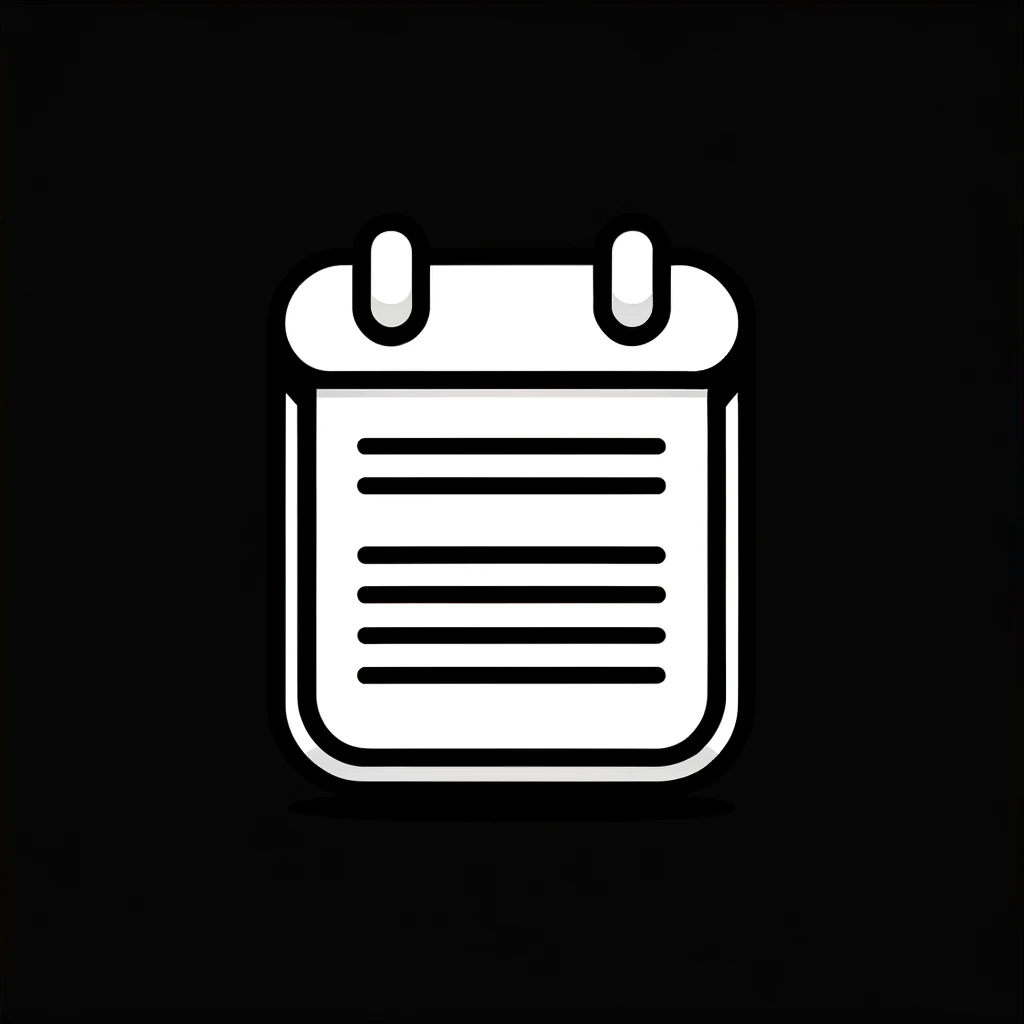
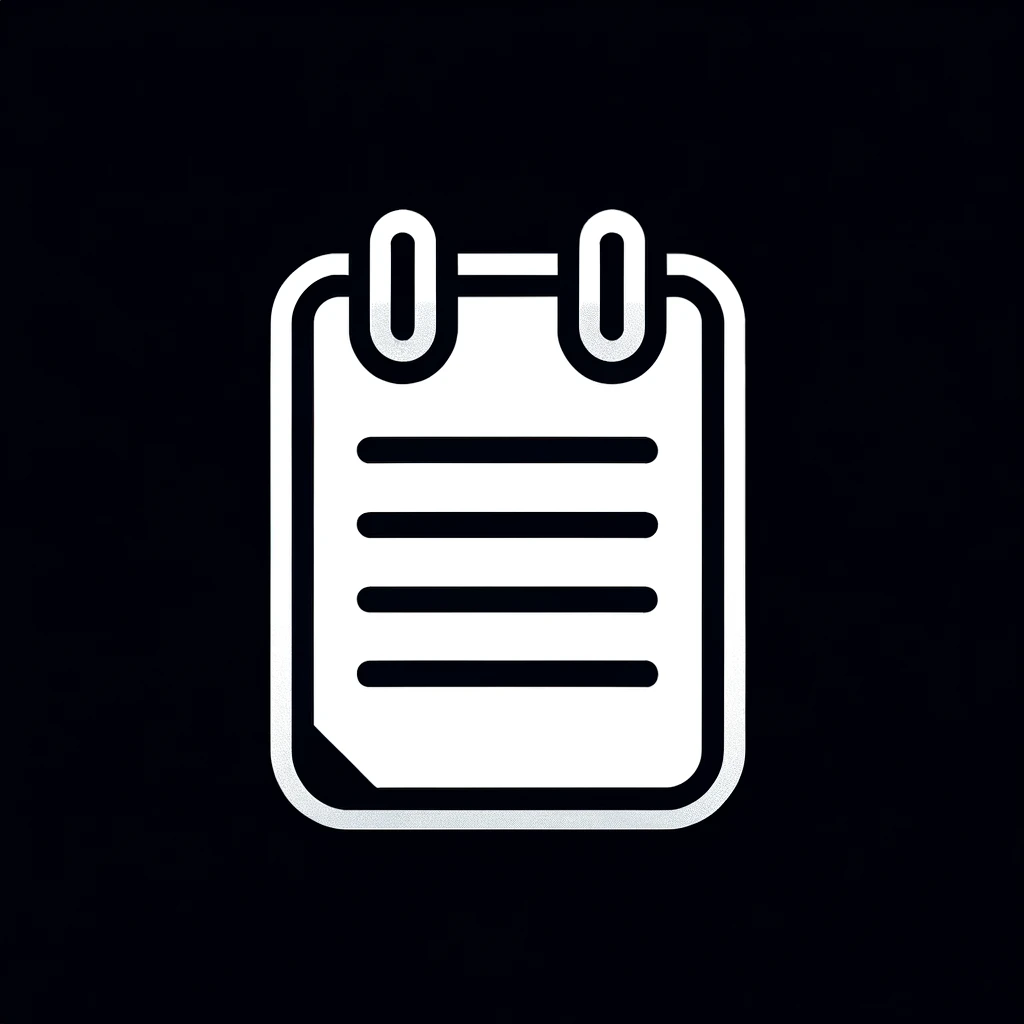
button design

Changed region(s): [[0.25, 0.1875, 0.75, 0.8125]]

diff --git a/src/pages/ActivityPage/SWCorePage.tsx b/src/pages/ActivityPage/SWCorePage.tsx
@@ -8,7 +8,8 @@ import { useSelector, useDispatch } from 'react-redux';
 import { RootState, AppDispatch } from "../../stores/redux/store";
 import { updateActivity, removeActivity, updateSWCoreInfo, updateTotals } from "../../stores/redux/userSlice";
 import { v4 as uuidv4 } from 'uuid';
-
+import plusButton from '../../assets/plusButton.webp';
+import summaryButton from '../../assets/summaryButton.webp';
 
 const SWCorePage:React.FC = () => {
 
@@ -67,7 +68,6 @@ const SWCorePage:React.FC = () => {
 				dispatch(updateActivity({id: activity.id, activity}))
 			});
 		
-			
 			return updatedActivitiesData;
 		});
 	};
@@ -94,12 +94,14 @@ const SWCorePage:React.FC = () => {
 	//되는 이슈가 가장 크다. 이걸 해결하기 위해 useEffect를 사용하는것임.
 	return (
 		<MainLayout>	
-			<div className={`${classes.button_container}`}>
-				<div className={classes.button_wrapper}>
-					<button className={classes.button} onClick={handlePlusButton}>+</button>
+			<div className={`${classes.button_container}` }>
+				<div className={`${classes.button_wrapper} ${classes.tooltip}`}>
+					<img src={plusButton} onClick={handlePlusButton} alt="plusButton"/>
+					<span className={classes.tooltiptext}>활동 추가하기</span>
 				</div>
-				<div className={classes.button_wrapper}>
-					<button className={classes.button}>-</button>
+				<div className={`${classes.button_wrapper} ${classes.tooltip}`}>
+					<img src={summaryButton} alt="summaryButton"/>
+					<span className={classes.tooltiptext}>등록 활동 목록</span>
 				</div>
 			</div>
 			{/* 원래 activitiesData를 그래도 map해서 보여주는 식으로 했지만, slice를 통한 얕은 복사를 통해 

diff --git a/src/pages/ActivityPage/SWValuePage.tsx b/src/pages/ActivityPage/SWValuePage.tsx
@@ -7,7 +7,9 @@ import classes from './PageStyles.module.css';
 import { useSelector, useDispatch } from 'react-redux';
 import { RootState, AppDispatch } from "../../stores/redux/store";
 import { updateActivity, removeActivity, updateSWValueInfo, updateTotals } from "../../stores/redux/userSlice";
-import {v4 as uuidv4} from 'uuid'
+import {v4 as uuidv4} from 'uuid';
+import plusButton from '../../assets/plusButton.webp';
+import summaryButton from '../../assets/summaryButton.webp';
 
 const SWValuePage:React.FC = () => {
 	const area:string = 'SW가치확산역량';
@@ -88,12 +90,14 @@ const SWValuePage:React.FC = () => {
 
 	return (
 		<MainLayout>	
-			<div className={`${classes.button_container}`}>
-				<div className={classes.button_wrapper}>
-					<button className={classes.button} onClick={handlePlusButton}>+</button>
+			<div className={`${classes.button_container}` }>
+				<div className={`${classes.button_wrapper} ${classes.tooltip}`}>
+					<img src={plusButton} onClick={handlePlusButton} alt="plusButton"/>
+					<span className={classes.tooltiptext}>활동 추가하기</span>
 				</div>
-				<div className={classes.button_wrapper}>
-					<button className={classes.button}>-</button>
+				<div className={`${classes.button_wrapper} ${classes.tooltip}`}>
+					<img src={summaryButton} alt="summaryButton"/>
+					<span className={classes.tooltiptext}>등록 활동 목록</span>
 				</div>
 			</div>
 			

diff --git a/src/pages/ActivityPage/PageStyles.module.css b/src/pages/ActivityPage/PageStyles.module.css
@@ -1,8 +1,47 @@
 
+.tooltip{
+	position: relative;
+	display: inline-block;
+}
+.tooltip .tooltiptext{
+	visibility: hidden;
+	width: 120px;
+	background-color: #ffffff;
+	color: #000000;
+	text-align: center;
+	border-radius: 6px;
+	padding: 5px 0;
+
+	position: absolute;
+  z-index: 1;
+  top: 100%;
+  left: 50%;
+  margin-left: -60px;
+
+	opacity: 0;
+	transition: opacity 0.3s;
+}
+
+.tooltip:hover .tooltiptext{
+	visibility: visible;
+	opacity: 1;
+}
+
+.tooltiptext::after{
+	border-top:0px solid transparent;
+	border-left: 10px solid transparent;
+	border-right: 10px solid transparent;
+	border-bottom: 10px solid white;
+	content:"";
+	position:absolute;
+	top:-10px;
+	right: 50px;
+}
+
 .button_container{
 	display: flex;
 	margin: 0 auto;
-	background-color: #2B2C31;
+	background-color: #000000;
 	border-radius: 10px;
 	width: 30%;
 	justify-content: center;
@@ -13,20 +52,16 @@
 	justify-content: center;
 	align-items: center;
 	border: 20px;
+	cursor: pointer;
+	transition: color 0.3s;
 }
 
-.button{
-	margin: 10px;
-	padding: 10px;
-	width: 60px;
-	height: 60px;
-	background-color: #ffffff;
-	color: #000000;
-	border-radius: 10px;
-	border: 2px solid #ffffff;
-	font-size: 25px;
+.button_wrapper img{
+	width: 80px;
+	height: auto;
+	transition: opacity 0.3s ease;
 }
 
-.button:hover{
-	border: 2px solid #32A4FF;
+.button_wrapper img:hover{
+	opacity: 0.7;
 }

diff --git a/src/pages/ActivityPage/SWCooperationPage.tsx b/src/pages/ActivityPage/SWCooperationPage.tsx
@@ -8,6 +8,8 @@ import { useSelector, useDispatch } from 'react-redux';
 import { RootState, AppDispatch } from "../../stores/redux/store";
 import { updateActivity, removeActivity, updateSWCooperationInfo, updateTotals } from "../../stores/redux/userSlice";
 import { v4 as uuidv4 } from 'uuid';
+import plusButton from '../../assets/plusButton.webp';
+import summaryButton from '../../assets/summaryButton.webp';
 
 const SWCooperationPage : React.FC = () =>{
 	const area:string = 'SW산학협력·창업역량';
@@ -88,12 +90,14 @@ const SWCooperationPage : React.FC = () =>{
 
 	return (
 		<MainLayout>	
-			<div className={`${classes.button_container}`}>
-				<div className={classes.button_wrapper}>
-					<button className={classes.button} onClick={handlePlusButton}>+</button>
+			<div className={`${classes.button_container}` }>
+				<div className={`${classes.button_wrapper} ${classes.tooltip}`}>
+					<img src={plusButton} onClick={handlePlusButton} alt="plusButton"/>
+					<span className={classes.tooltiptext}>활동 추가하기</span>
 				</div>
-				<div className={classes.button_wrapper}>
-					<button className={classes.button}>-</button>
+				<div className={`${classes.button_wrapper} ${classes.tooltip}`}>
+					<img src={summaryButton} alt="summaryButton"/>
+					<span className={classes.tooltiptext}>등록 활동 목록</span>
 				</div>
 			</div>
 			

diff --git a/src/pages/ActivityPage/SWConvergencePage.tsx b/src/pages/ActivityPage/SWConvergencePage.tsx
@@ -8,6 +8,8 @@ import { useSelector, useDispatch } from 'react-redux';
 import { RootState, AppDispatch } from "../../stores/redux/store";
 import { updateActivity, removeActivity, updateSWConvergenceInfo, updateTotals } from "../../stores/redux/userSlice";
 import { v4 as uuidv4 } from 'uuid';
+import plusButton from '../../assets/plusButton.webp';
+import summaryButton from '../../assets/summaryButton.webp';
 
 const SWConvergencePage:React.FC = () => {
 	const area:string = 'SW융합역량';
@@ -88,12 +90,14 @@ const SWConvergencePage:React.FC = () => {
 	
 	return (
 		<MainLayout>
-			<div className={`${classes.button_container}`}>
-				<div className={classes.button_wrapper}>
-					<button className={classes.button} onClick={handlePlusButton}>+</button>
+			<div className={`${classes.button_container}` }>
+				<div className={`${classes.button_wrapper} ${classes.tooltip}`}>
+					<img src={plusButton} onClick={handlePlusButton} alt="plusButton"/>
+					<span className={classes.tooltiptext}>활동 추가하기</span>
 				</div>
-				<div className={classes.button_wrapper}>
-					<button className={classes.button}>-</button>
+				<div className={`${classes.button_wrapper} ${classes.tooltip}`}>
+					<img src={summaryButton} alt="summaryButton"/>
+					<span className={classes.tooltiptext}>등록 활동 목록</span>
 				</div>
 			</div>
 			
